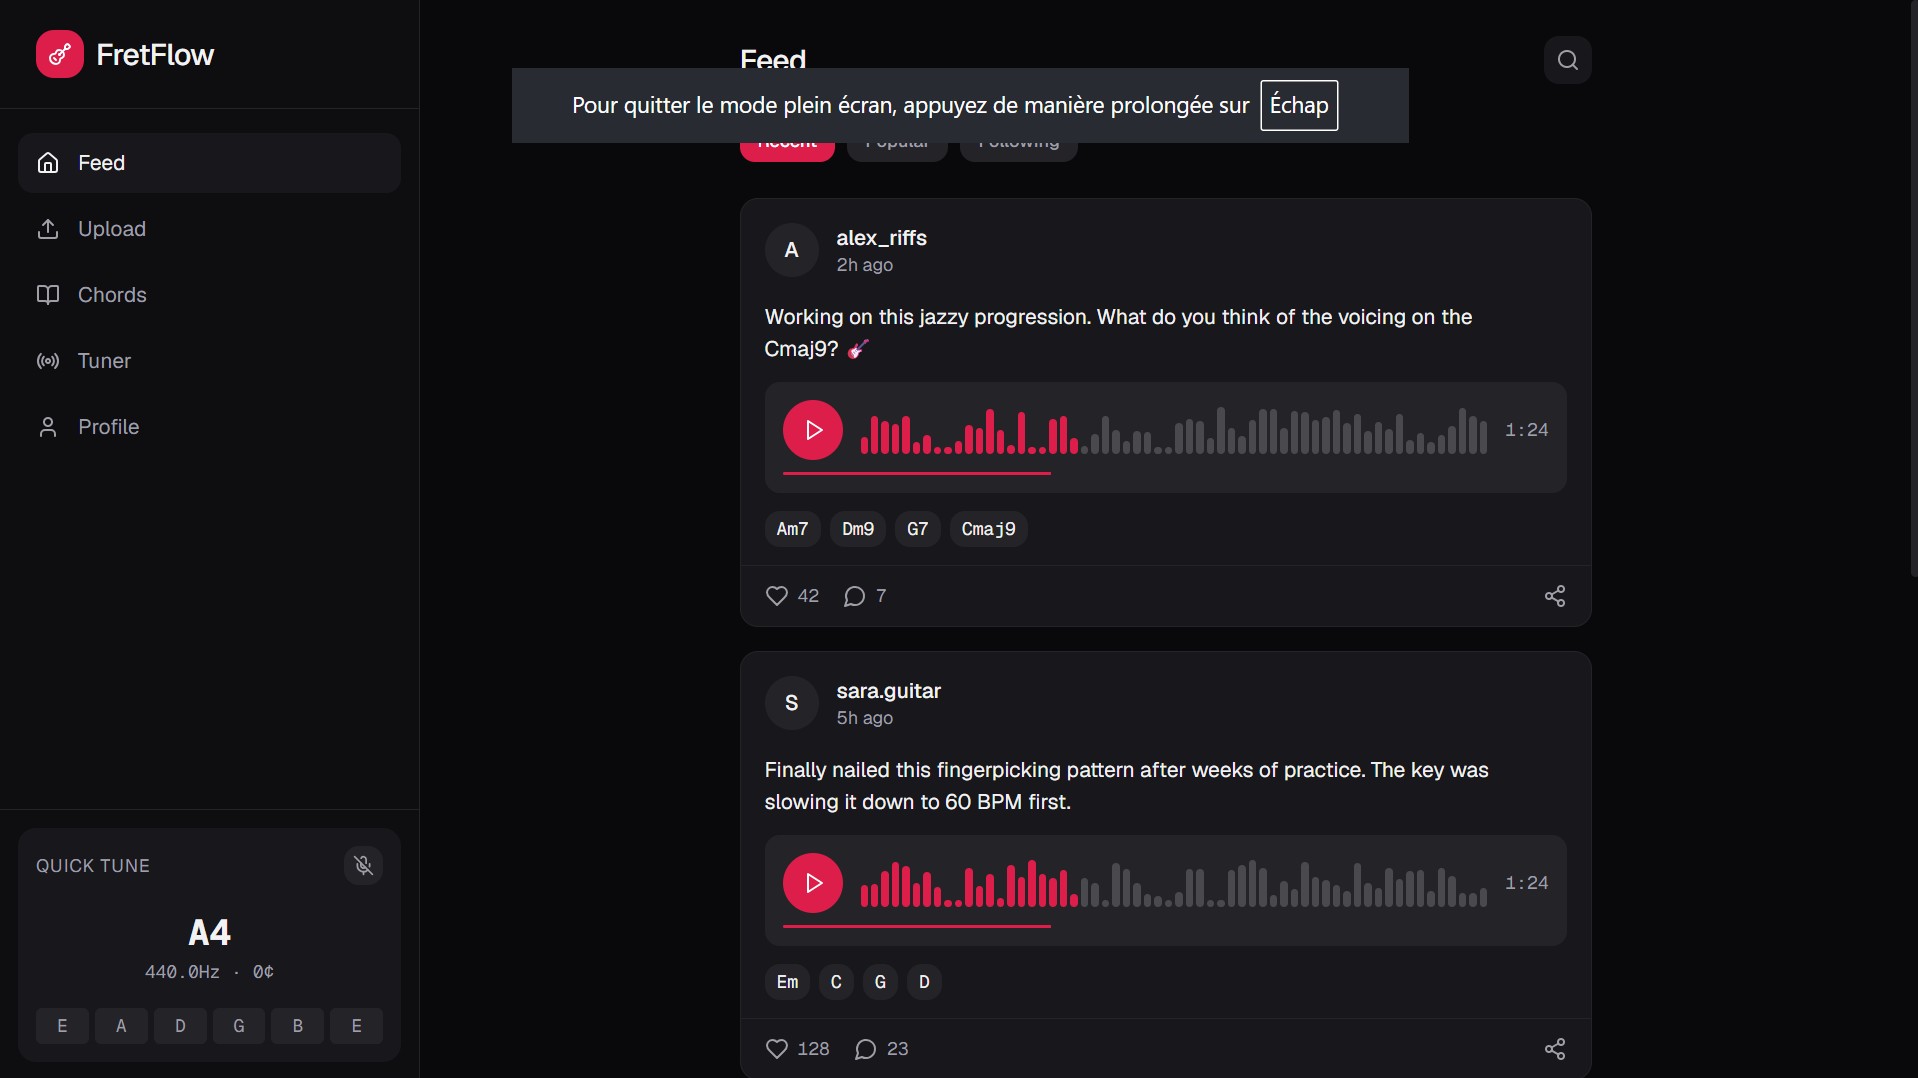
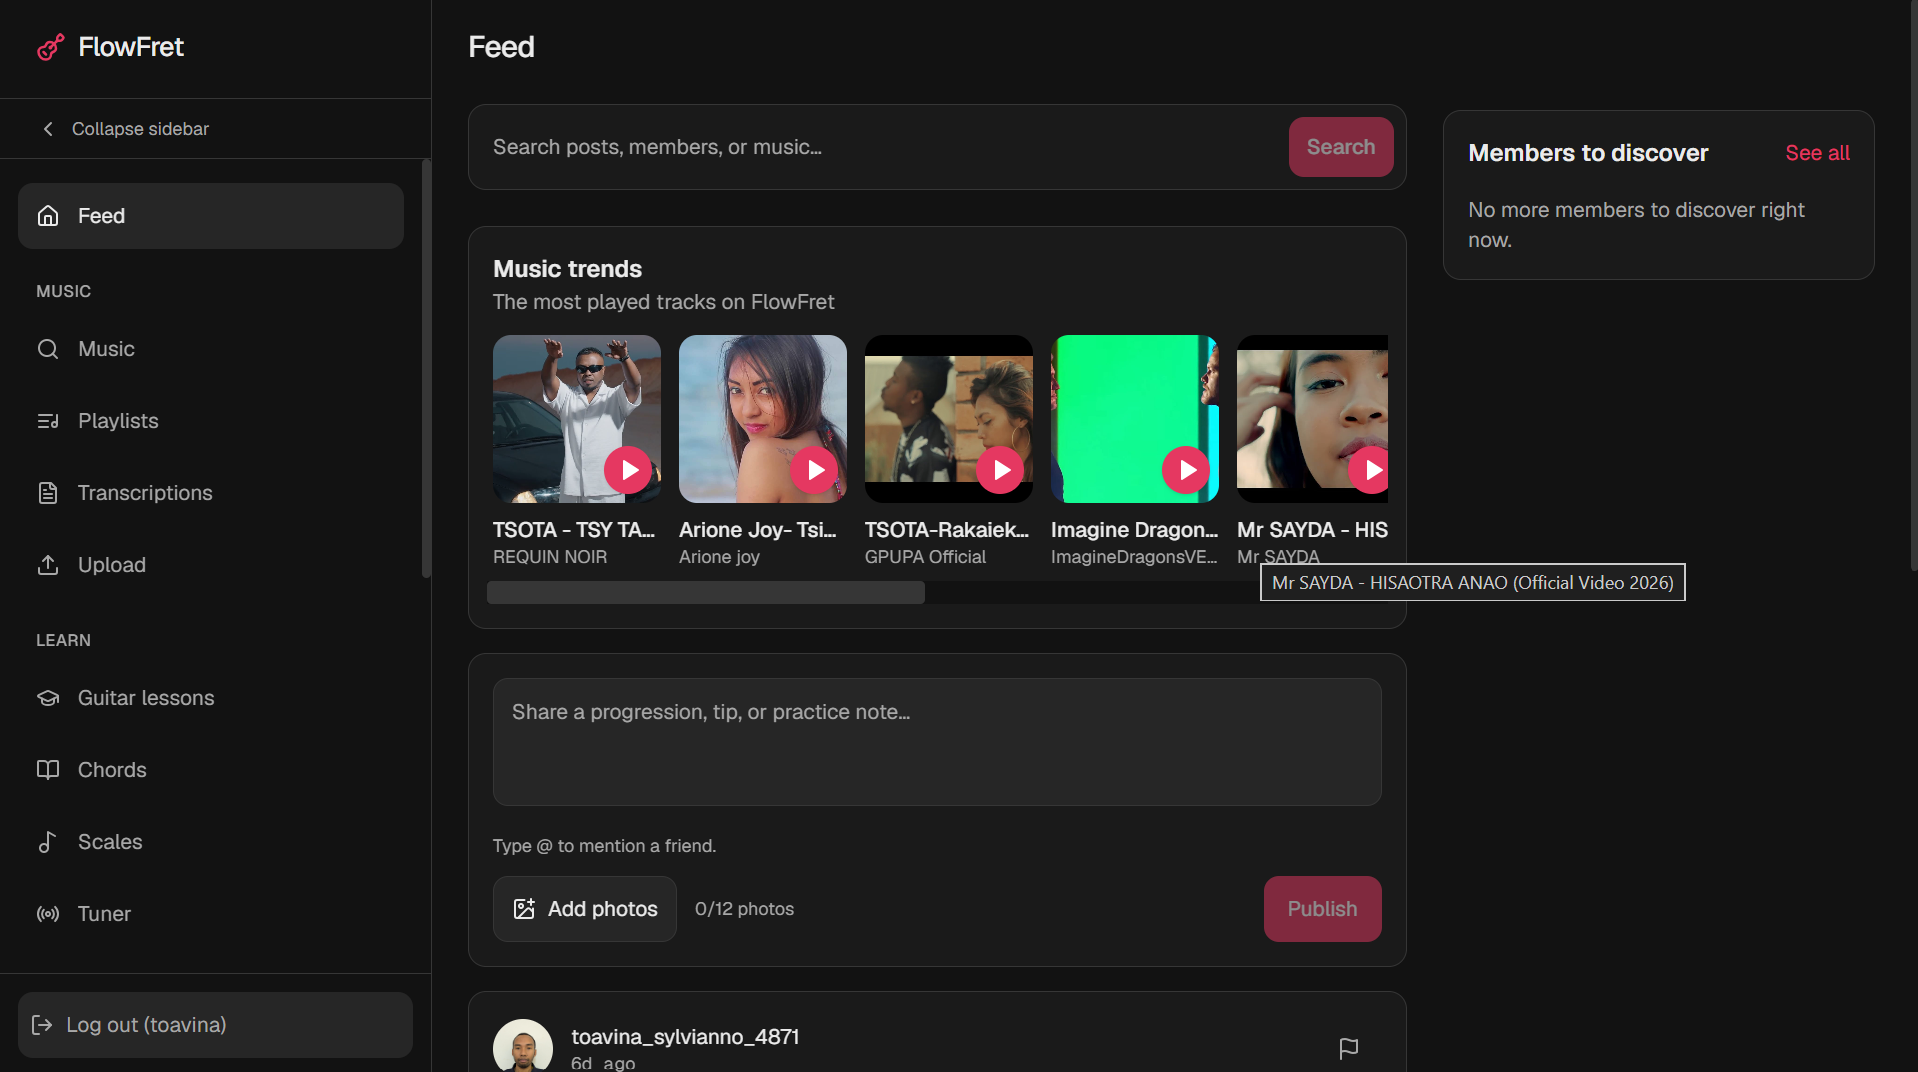
feat: updating screenshot and card

diff --git a/src/components/sections/CertificationsSection.tsx b/src/components/sections/CertificationsSection.tsx
@@ -1,5 +1,9 @@
 import certifications from '../../data/certification';
 
+function credentialUrl(cert: (typeof certifications)[number]) {
+  return cert.certificateLink ?? cert.image;
+}
+
 export function CertificationsSection() {
   return (
     <section id="certifications" className="section">
@@ -8,11 +12,13 @@ export function CertificationsSection() {
       <div className="cert-grid">
         {certifications.slice(0, 4).map((cert) => (
           <div className="cert-card-shell" key={cert.title}>
-            <article className="info-card cert-hover-card">
-              <h3>{cert.title}</h3>
-              <p>{cert.issuer}</p>
-              {cert.certificateLink && <a href={cert.certificateLink} target="_blank" rel="noopener noreferrer">View credential →</a>}
-            </article>
+            <a className="cert-card-link" href={credentialUrl(cert)} target="_blank" rel="noopener noreferrer" aria-label={`View ${cert.title} certificate`}>
+              <article className="info-card cert-hover-card">
+                <h3>{cert.title}</h3>
+                <p>{cert.issuer}</p>
+                <span className="text-link">View credential ↗</span>
+              </article>
+            </a>
           </div>
         ))}
       </div>
@@ -21,15 +27,17 @@ export function CertificationsSection() {
         <div className="cert-grid all-certifications">
           {certifications.map((cert) => (
             <div className="cert-card-shell" key={`${cert.issuer}-${cert.title}`}>
-              <article className="project-card cert-card cert-hover-card">
-                {cert.image && <img src={cert.image} alt={`${cert.title} certificate`} width="640" height="360" loading="lazy" decoding="async" />}
-                <div className="card-body">
-                  <h3>{cert.title}</h3>
-                  <p>{cert.issuer}</p>
-                  {cert.description && <p>{cert.description}</p>}
-                  {cert.certificateLink ? <a href={cert.certificateLink} target="_blank" rel="noopener noreferrer">View credential →</a> : cert.image && <a href={cert.image} target="_blank" rel="noopener noreferrer">View certificate →</a>}
-                </div>
-              </article>
+              <a className="cert-card-link" href={credentialUrl(cert)} target="_blank" rel="noopener noreferrer" aria-label={`View ${cert.title} certificate`}>
+                <article className="project-card cert-card cert-hover-card">
+                  {cert.image && <img src={cert.image} alt={`${cert.title} certificate`} width="640" height="360" loading="lazy" decoding="async" />}
+                  <div className="card-body">
+                    <h3>{cert.title}</h3>
+                    <p>{cert.issuer}</p>
+                    {cert.description && <p>{cert.description}</p>}
+                    <span className="text-link">View credential ↗</span>
+                  </div>
+                </article>
+              </a>
             </div>
           ))}
         </div>

diff --git a/src/data/skills.ts b/src/data/skills.ts
@@ -3,21 +3,38 @@ import { Code2 } from 'lucide-react';
 import {
   SiCmake,
   SiCplusplus,
+  SiBootstrap,
+  SiDjango,
+  SiDotnet,
   SiDocker,
+  SiExpo,
+  SiFastapi,
+  SiFirebase,
+  SiFlutter,
+  SiGraphql,
+  SiGtk,
   SiGit,
   SiGithub,
   SiJavascript,
   SiLinux,
   SiMysql,
+  SiMongodb,
+  SiN8N,
+  SiNginx,
   SiNestjs,
   SiNextdotjs,
   SiPostgresql,
   SiPrisma,
+  SiRedis,
   SiQt,
   SiReact,
   SiSfml,
   SiTailwindcss,
+  SiApache,
+  SiSqlalchemy,
+  SiSupabase,
   SiTypescript,
+  SiTypeorm,
   SiVercel,
 } from 'react-icons/si';
 
@@ -30,18 +47,35 @@ const skills: Record<string, Skill[]> = {
     { name: 'JavaScript', Icon: SiJavascript },
     { name: 'Next.js', Icon: SiNextdotjs },
     { name: 'Tailwind CSS', Icon: SiTailwindcss },
+    { name: 'Flutter', Icon: SiFlutter },
+    { name: 'Bootstrap', Icon: SiBootstrap },
+    { name: 'React Native', Icon: Code2 },
+    { name: 'Expo', Icon: SiExpo },
   ],
 
   Backend: [
     { name: 'NestJS', Icon: SiNestjs },
     { name: 'REST APIs', Icon: Code2 },
     { name: 'Authentication', Icon: Code2 },
+    { name: '.NET', Icon: SiDotnet },
+    { name: 'Django', Icon: SiDjango },
+    { name: 'FastAPI', Icon: SiFastapi },
   ],
 
   Databases: [
     { name: 'PostgreSQL', Icon: SiPostgresql },
     { name: 'Prisma', Icon: SiPrisma },
     { name: 'MySQL', Icon: SiMysql },
+    { name: 'GraphQL', Icon: SiGraphql },
+    { name: 'Redis', Icon: SiRedis },
+    { name: 'Qdrant', Icon: Code2 },
+    { name: 'MongoDB', Icon: SiMongodb },
+    { name: 'Neo4j', Icon: Code2 },
+    { name: 'Supabase', Icon: SiSupabase },
+    { name: 'Neon', Icon: Code2 },
+    { name: 'Firebase', Icon: SiFirebase },
+    { name: 'TypeORM', Icon: SiTypeorm },
+    { name: 'SQLAlchemy', Icon: SiSqlalchemy },
   ],
 
   'Software & Desktop': [
@@ -49,6 +83,7 @@ const skills: Record<string, Skill[]> = {
     { name: 'Qt', Icon: SiQt },
     { name: 'CMake', Icon: SiCmake },
     { name: 'SFML', Icon: SiSfml },
+    { name: 'GTK', Icon: SiGtk },
   ],
 
   'DevOps & Tools': [
@@ -57,12 +92,15 @@ const skills: Record<string, Skill[]> = {
     { name: 'Git', Icon: SiGit },
     { name: 'GitHub', Icon: SiGithub },
     { name: 'Vercel', Icon: SiVercel },
+    { name: 'Nginx', Icon: SiNginx },
+    { name: 'Apache', Icon: SiApache },
   ],
 
   'AI & Automation': [
     { name: 'LLM API integration', Icon: Code2 },
     { name: 'Knowledge-grounded assistants', Icon: Code2 },
     { name: 'Workflow automation', Icon: Code2 },
+    { name: 'n8n', Icon: SiN8N },
   ],
 };
 

diff --git a/src/index.css b/src/index.css
@@ -90,6 +90,7 @@
 
   html {
     @apply scroll-smooth scroll-pt-24;
+    background-color: hsl(var(--background));
   }
 
   body {
@@ -540,6 +541,30 @@
   transition: transform 350ms ease, border-color 350ms ease, box-shadow 350ms ease;
 }
 
+.card-hit-area {
+  position: absolute;
+  z-index: 1;
+  inset: 0;
+  border-radius: inherit;
+}
+
+.interactive-project-card > img,
+.interactive-project-card > .card-body {
+  position: relative;
+  z-index: 2;
+  pointer-events: none;
+}
+
+.interactive-project-card .actions,
+.interactive-project-card .actions a {
+  pointer-events: auto;
+}
+
+.card-hit-area:focus-visible {
+  outline: 3px solid hsl(var(--ring));
+  outline-offset: 3px;
+}
+
 .interactive-project-card::after {
   position: absolute;
   inset: 0;
@@ -601,6 +626,21 @@
   display: flex;
   padding-top: 12px;
   padding-right: 12px;
+}
+
+.cert-card-link {
+  position: relative;
+  z-index: 1;
+  display: flex;
+  flex: 1;
+  color: inherit;
+  text-decoration: none;
+}
+
+.cert-card-link:focus-visible {
+  outline: 3px solid hsl(var(--ring));
+  outline-offset: 3px;
+  border-radius: 1rem;
 }
 
 .cert-card-shell:nth-child(3n + 2) { --cert-backdrop: color-mix(in srgb, hsl(var(--primary)) 72%, hsl(var(--foreground))); }

diff --git a/index.html b/index.html
@@ -3,6 +3,8 @@
   <head>
     <meta charset="UTF-8" />
     <meta name="viewport" content="width=device-width, initial-scale=1" />
+    <style>html{min-height:100%;background:#121212}html[data-theme="light"]{background:#faf8f5}</style>
+    <script>try{document.documentElement.dataset.theme=localStorage.getItem('theme')==='light'?'light':'dark'}catch{document.documentElement.dataset.theme='dark'}</script>
     <title>Toavina Sylvianno RANDRIAMIHAINGOSON | Software Engineer</title>
     <meta name="description" content="Software Engineer and Full-Stack Developer in Madagascar building React, NestJS, PostgreSQL, C++/Qt and AI-integrated applications. Available for remote opportunities." />
     <meta name="author" content="Toavina Sylvianno RANDRIAMIHAINGOSON" />

diff --git a/src/data/socialNetwork.ts b/src/data/socialNetwork.ts
@@ -1,7 +1,13 @@
-import { SiLinkedin, SiMalt, SiUpwork } from 'react-icons/si';
+import { SiLinkedin, SiMalt, SiUpwork, SiWhatsapp } from 'react-icons/si';
 import type { SocialNetwork } from '../types';
 
 const socialNetworks: SocialNetwork[] = [
+  {
+    name: 'WhatsApp',
+    url: 'https://wa.me/261341654007',
+    description: 'Écrivez-moi directement sur WhatsApp au +261 34 16 54 007.',
+    Icon: SiWhatsapp,
+  },
   {
     name: 'Upwork',
     url: 'https://www.upwork.com/freelancers/~0141db3c7711b27f9b',

diff --git a/src/components/ProjectCard.tsx b/src/components/ProjectCard.tsx
@@ -61,6 +61,11 @@ export function ProjectCard({
     <article
       className={`project-card interactive-project-card ${compact ? 'compact' : ''}`}
     >
+      <a
+        className="card-hit-area"
+        href={`/projects/${project.slug}`}
+        aria-label={`Open case study: ${project.title}`}
+      />
       <img
         src={project.image}
         alt={`${project.title} application interface`}
